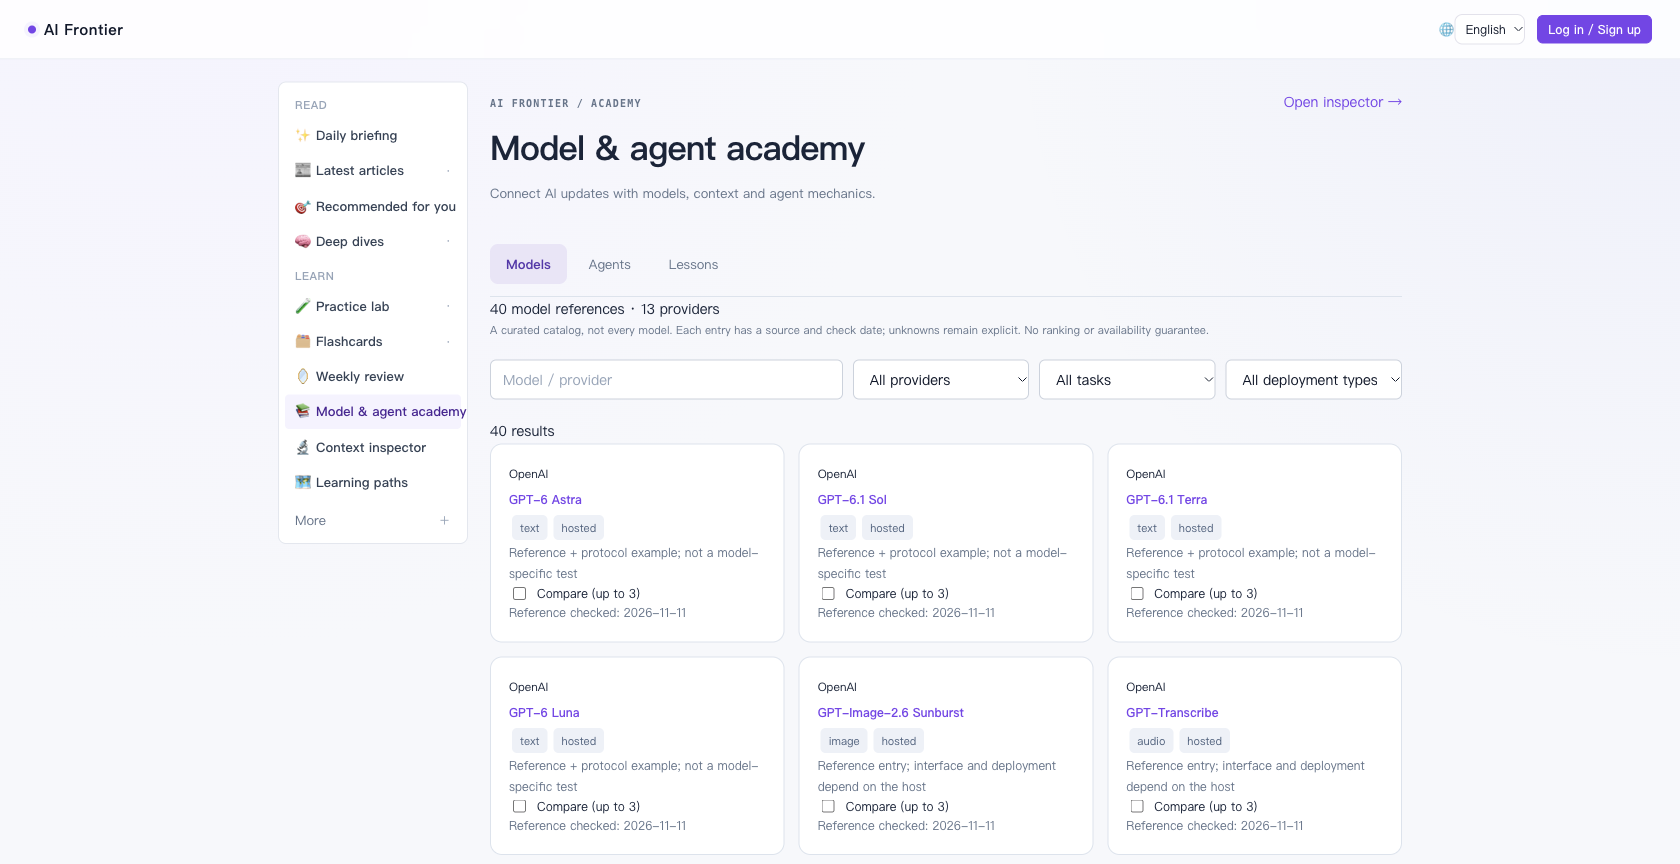
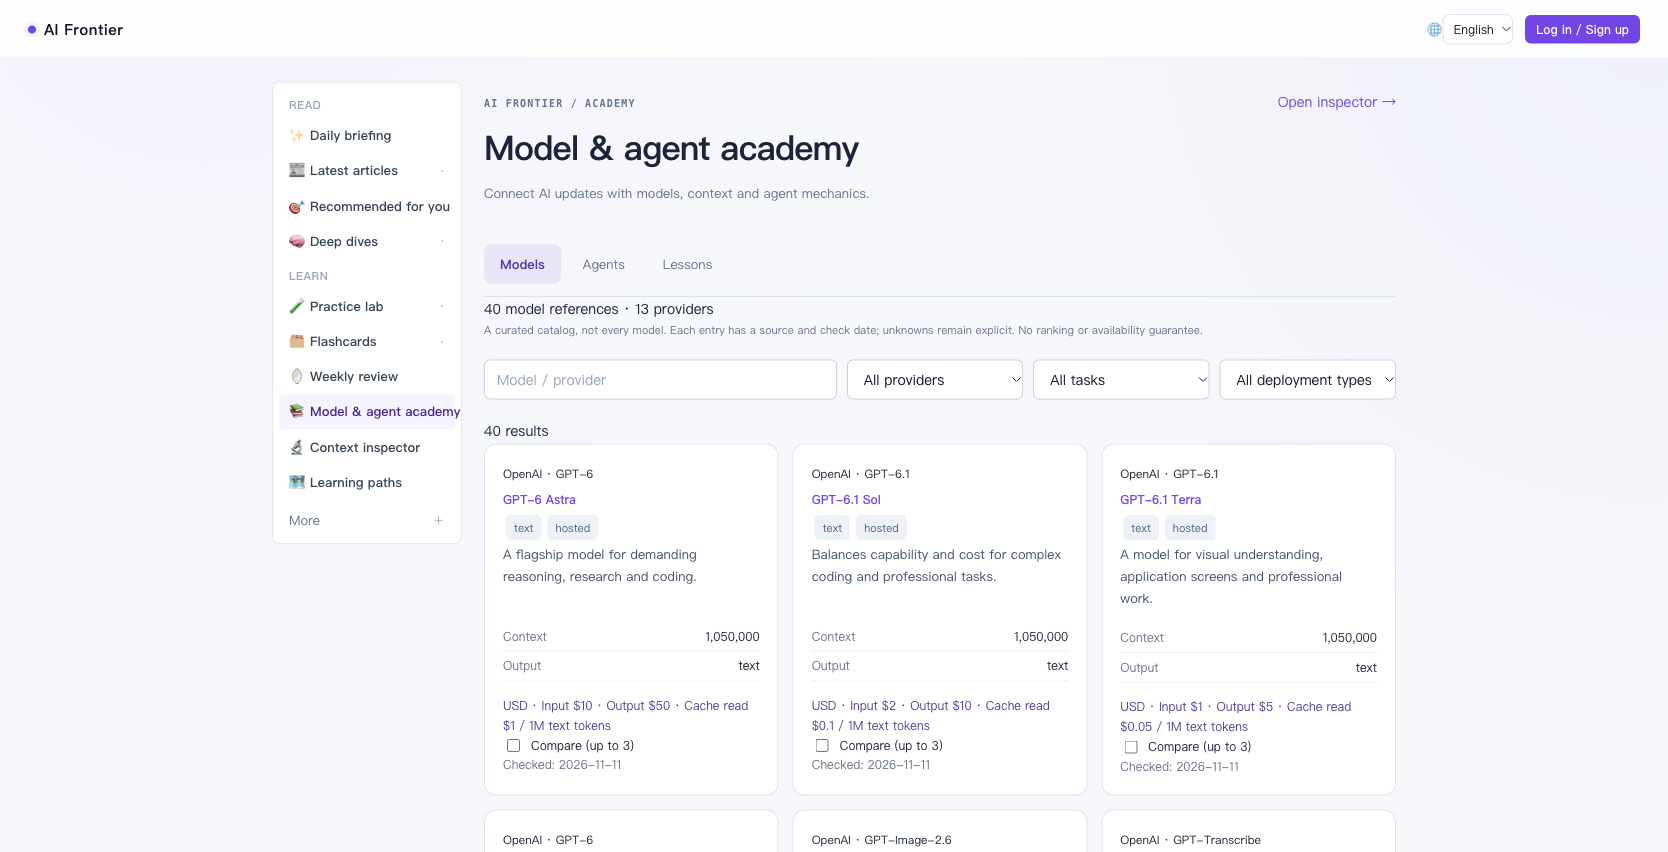
docs: 记录内容深化路由时序和价格维护要求

diff --git a/llmdoc/guides/learning-content-maintenance.md b/llmdoc/guides/learning-content-maintenance.md
@@ -6,13 +6,15 @@
 
 编辑 `frontend/src/academy/models.json`。稳定 `id` 不随显示名修改；记录 provider/family/task/access、官方 source、verified_on 与 verification。能力、上下文、价格、许可、生命周期和迁移关系只有核验后填写，未知用 null 或 not-verified。开放权重不等于开源许可。专用图像/音视频接口不可因提供方有 Chat API 就标注 Chat 协议。超过 30 天显示需复核，不自动声明下架。
 
-每次从官方模型卡/API 文档核验；不以聚合商排名或发布日期推断可用性。目录协议链接只提供占位模型教学，不代表该型号执行测试。
+每次从官方模型卡/API 文档核验；不以聚合商排名或发布日期推断可用性。目录协议链接提供人工教学请求；已核验 model_id 的文本模型可展示该 ID，Gemini 仍按原生请求结构展示。两者均不发出 API 请求、不代表型号实测。
+
+每条资料还要填写双语 summary 与 notes，记录用途、版本差异和关键限制。model_id、architecture、parameters、embedding_dimensions 按型号填写；references 给出具体官方页面与核验日期，避免只链接品牌首页。pricing 是结构化对象：currency、unit、input/output/cached_input、双语 note、checked_on；促销必须填写 valid_through，过期时界面提示复核，不自动沿用为当前价。不能混用字符、分钟、图像与 token 单位。
 
 ## Agent 与案例
 
-`agents.js` 分 product/framework/pattern，提供公开来源、部件与关联案例 ID；`agent-components.js` 负责部件解释。闭源产品仅解释公开部分。
+`agents.js` 分 product/framework/pattern，提供公开来源、部件与关联案例 ID；`agent-components.js` 负责基础解释，`agent-guides.js` 提供各实现的关键文件、工作机制、输入输出/可见性与官方链接。闭源产品仅解释公开部分。
 
-`lessons.js` 包含双语学习目标、前置概念、练习、自检与固定请求轨迹。轨迹必须注明人工教学数据，最终答复为预写示例。新增步骤需同时更新步骤标签；失败保留错误证据并用新 ID 重试。只保存 `aif_academy_progress_v1` 的案例完成布尔标记，原始请求和测验答案不持久化。
+`lessons.js` 包含双语学习目标、前置概念、练习、自检与固定请求轨迹。轨迹必须注明人工教学数据，最终答复为预写示例。`lesson-notes.js` 按每条轨迹的每一步解释变化，`lesson-walkthrough.js` 从同一请求数据派生可读消息、调用参数/结果、错误和差异；原始 JSON 收起展示。新增步骤需同时更新步骤标签与讲解；失败保留错误证据并用新 ID 重试。只保存 `aif_academy_progress_v1` 的案例完成布尔标记，原始请求和测验答案不持久化。
 
 模型链接 `/academy?model=<id>`、Agent 链接 `?tab=agents&agent=<id>`、案例链接 `?tab=lessons&lesson=<id>`；请求深链 `/context?protocol=<chat|claude|responses|gemini>&case=<id>&step=<0-based>`。可以附带 `lang=en|zh`。`learning-links.js` 用确定性名称匹配资讯；不调用 LLM。
 
@@ -30,3 +32,9 @@
 2. `npm run build` 与 `npm audit --omit=dev`；仓库根 `.venv/bin/pytest -q` 回归。
 3. 浏览器验证中英目录、比较、Agent 部件、案例步骤→解剖台、自检保存/重置、文件导入、错误输入、390px 横向溢出和已有资讯入口。
 4. 同步 README、计划状态和文档索引。按项目既有授权提交推送，检查 CI 与实际部署产物。
+
+## 路由与首屏
+
+`public/route-shell.js` 在 head 中以外部同步脚本运行，深链首帧使用 route-pending 隐藏首页 hero，符合 script-src self，不放宽 CSP。main 在 session I/O 前 applyRoute；academy/context 立即加载，个人视图 loader 由 navigationAuthReady 解锁，避免未登录误判。不要把“提前显示页面”改成“提前请求个人数据”。
+
+`route-links.js` 接管已知站内同语言普通链接，使用 History API + applyRoute；保留 Ctrl/Meta、target、download、外链、API/RSS、hash 与语言切换的原生行为。语言参数缺省时按实际已解析界面语言判断。测试深链时可延迟 /api/auth/me，观察整个首帧周期；站内切换检查 document identity/timeOrigin 未变化，再验证返回/前进与案例 query。

diff --git a/llmdoc/architecture/frontend-architecture.md b/llmdoc/architecture/frontend-architecture.md
@@ -144,3 +144,12 @@ ES module，靠 `import` 互相引用，入口是 `index.html` 末尾的 `<scrip
 协议、分析、数据、视图各自独立。四协议规范化后保留原始字段；ID/顺序用于工具关联，字节合计与完整请求分开，不声称 token。流式事件按协议重组并保留未知事件与错误；可选输入请求按工具名称与调用 ID 关联。不执行导入代码、不请求导入 URL、不保存原始输入；页面刷新和身份变化清除内存。只有案例完成布尔标记存 localStorage，存储不可用时使用临时内存。
 
 目录能力以官方来源与核验范围为界，未知信息不猜测；产品说明为公开文档教学抽象，案例是人工 fixture。输入限制、支持边界与内容维护见 [学习内容维护](../guides/learning-content-maintenance.md)。
+
+
+### 9.1 内容深化与首屏修复（2026-11-11）
+
+40 条模型增加双语用途/限制、27 条上下文信息与19 条结构化费用，按明确 API/型号来源整理；价格带单位/条件/核验日期，促销带有效期并在过期后提示复核。model-learning.js 按文本、图像、音频、视频、embedding、reranker 解释数据流；model-views.js 先展示关键规格、原理和练习，再列明已知参数，相关待补字段集中折叠，不生成满屏空表。型号 model_id 深链到解剖台人工示例。
+
+agent-guides.js 补各 Agent 的具体指导文件、上下文选择、运行边界和来源；子任务作为工具与 SDK handoff 区分，后者默认历史继承不能用最小教学 fixture 推断。lesson-notes.js 与 lesson-walkthrough.js 用逐轮讲解和数据派生结果替代以 JSON 为主的案例正文。
+
+首屏不再等待 initAuth 后才从首页恢复路由：head 外部 route-shell.js 先隐藏深链首页 hero，主模块立即恢复目标；公开离线视图立即加载，用户视图仍等待身份。route-links.js 让同语言站内链接在原文档中切换，语言变化/外链/特殊点击保留浏览器行为。

diff --git a/README.md b/README.md
@@ -19,6 +19,7 @@ Follow model releases, API changes, open-source tools and research. Read in Engl
 - **Read a concise daily briefing.** Related reports are grouped, sources are cited, and each generated briefing has English and Chinese versions. Subscribe through RSS.
 - **Keep your reading context.** Searches, filters and pagination stay in the URL, so you can bookmark or share a view and switch languages without losing it.
 - **Explore models and agents.** The [academy](https://ai.zhangyangbin.com/academy?lang=en) includes 40 sourced model references across 13 providers, searchable filters, side-by-side comparison, seven agent/product/pattern entries and five interactive lessons with local completion progress.
+- **Go beyond model names.** Read task-specific data flows, documented limits and pricing conditions, concrete agent guidance files, and turn-by-turn explanations with matched calls and results. Internal learning links switch without reloading the landing page.
 - **Inspect real request structures locally.** The [context inspector](https://ai.zhangyangbin.com/context?lang=en) accepts Chat Completions, Responses, Claude Messages and Gemini GenerateContent JSON, plus common streaming events. Explore byte composition, schemas, call/result links, request differences and stream reconstruction. Inputs stay in browser memory; no API key or model call is needed. Teaching traces are authored examples, not captured product runs.
 - **Explore the details.** Generate deep dives and small experiment cards, save progress notes, and discuss articles with the assistant.
 - **Inspect coverage.** See source health, freshness, filtering and discovery latency. Manually registered event benchmarks retain observed evidence even when articles leave the rolling feed.

diff --git a/README.zh-CN.md b/README.zh-CN.md
@@ -21,6 +21,7 @@
 - **减少重复阅读**：相关性过滤、同事件聚合、中文翻译和带原文引用的每日速报；支持 RSS 订阅 `/rss/digest.xml`。
 - **保存阅读入口**：搜索、筛选和分页同步到网址，刷新、切换语言或分享链接后保留条件。
 - **学习模型与 Agent**：[学习库](https://ai.zhangyangbin.com/academy?lang=zh)收录 13 个提供方的 40 条有来源模型资料，支持搜索筛选、最多三项比较；提供 7 项 Agent 产品/框架/模式介绍、5 条交互案例和本地学习进度。
+- **不止模型名称**：提供各类任务数据流、已核验规格与价格条件、Agent 具体指导文件，以及逐轮解释和调用/结果对照；站内学习链接直接切换，修复先闪首页的问题。
 - **检查真实请求结构**：[上下文解剖台](https://ai.zhangyangbin.com/context?lang=zh)支持 Chat Completions、Responses、Claude Messages、Gemini GenerateContent 请求与常见流式事件，联动查看字节组成、参数树、调用/结果、请求差异和流式重组。导入内容仅在浏览器内存处理，无需密钥、不调用模型；教学轨迹为人工编写，非产品实测。
 - **把阅读变成实践**：按需深度解读、结构化实验卡、进度和结果笔记，可交给对话助手逐步讨论。
 - **看清覆盖质量**：来源健康、内容陈旧度、噪声率和发现延迟可查；人工必达基准会保留最早命中证据，文章淘汰后仍可核验。

diff --git a/llmdoc/index.md b/llmdoc/index.md
@@ -37,6 +37,7 @@
 | 学习网站 M0–M5 规划与首版交付 | [学习网站计划](../docs/learning-platform-plan.md) |
 | 可视化学习system/tool/skill、逐步检查工具调用上下文 | [前端架构](architecture/frontend-architecture.md)（第 8 节）＋ `frontend/src/context-lab.js` / `context-example.js` |
 | 中英文 README、语言切换、界面消息目录与双语速报 | [前端架构](architecture/frontend-architecture.md#7-中英文界面与内容边界) ＋ `app/locale.py` ＋ `app/briefing_languages.py` |
+| 排查深链接先闪首页、站内学习链接整页刷新和 session 加载时序 | [前端架构](architecture/frontend-architecture.md#91-内容深化与首屏修复2026-11-11) ＋ `frontend/src/route-links.js` / `frontend/public/route-shell.js` |
 | 改前端 / 理解 ES module 结构 / 视图切换 / Vite 构建 | [前端架构](architecture/frontend-architecture.md) |
 | 理解阅读优先的信息架构 / 首页入口 / 导航分层 / 文章卡片操作 | [前端架构](architecture/frontend-architecture.md)（第 1.2/3/4 节） |
 | 搜索筛选链接分享、刷新与语言切换后恢复条件 | [前端架构](architecture/frontend-architecture.md)（第 3 节）＋ `frontend/src/feed-route.js` |

diff --git a/docs/learning-platform-plan.md b/docs/learning-platform-plan.md
@@ -152,3 +152,10 @@
 - 请求上限 1 MiB、流上限 2 MiB/5000 事件、200 消息/100 工具/500 上下文块。解析器、协议 fixture、目录、案例和视图分离；维护流程见 llmdoc/guides/learning-content-maintenance.md。
 
 这次完成的是计划的首版离线学习闭环；不包括真实模型执行、自动性能评测、用户密钥、全世界模型穷举或产品内部隐藏状态。
+
+
+## 11. 内容深度与导航改进
+
+用户反馈首版过简、空字段多、点击先闪首页后，再补充 40 条双语用途与边界、27 条上下文信息、19 条有单位/条件的官方价格；增加各任务类型的数据流、Agent 的指导文件与具体工作机制、每个案例步骤的原因/新增内容/可读消息/调用结果。已核验参数先展示，待补字段集中收起。保持未覆盖能力的诚实标注，不能用泛泛说明代替型号事实。
+
+站内同语言链接改为客户端路由；深链首屏先隐藏首页，公开学习页面不等待登录检查，个人 loader 仍等待身份。验证包括延迟 session 请求的首帧观察、同文档切换、浏览器返回及中英手机页面。
